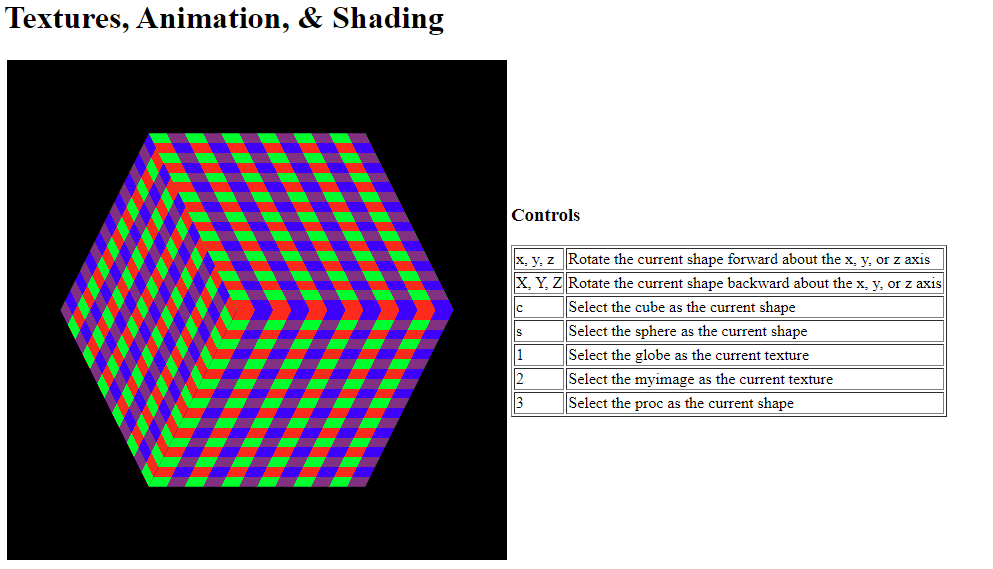
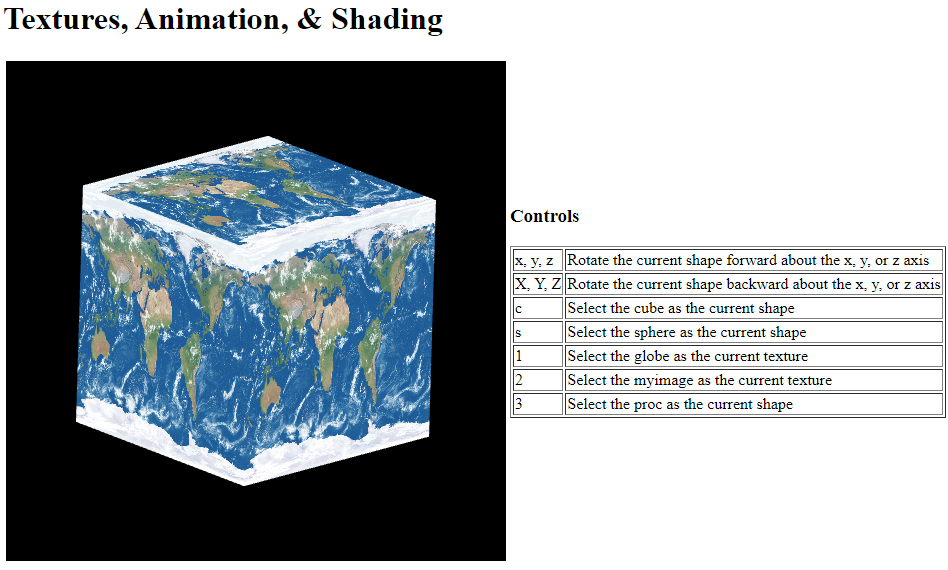
update

diff --git a/shading3d/textureMain.js b/shading3d/textureMain.js
@@ -20,7 +20,7 @@
 
   // what texure are you using
   // valid values = "globe", "myimage" or "proc"
-  let curTexture = "proc";
+  let curTexture = "globe";
 
   var anglesReset = [30.0, 30.0, 0.0];
   var cube_angles = [30.0, 30.0, 0.0];
@@ -337,6 +337,8 @@ function bindVAO (shape, program) {
     
     // set up your textures
     setUpTextures();
+
+    setTimeout(()=>{draw();}, 3000);
     
     // do a draw
     draw();
